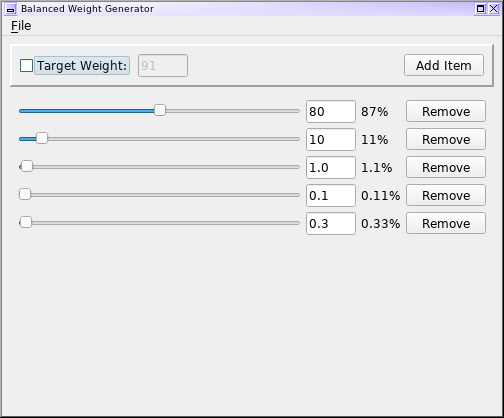
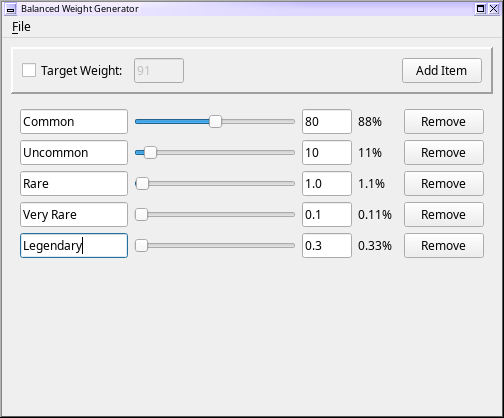
Adding text labels to rows, courtesy apple1417

Changed region(s): [[0.0298, 0.1244, 0.9821, 0.622], [0.0, 0.0311, 1.0, 0.0933], [0.0595, 0.0, 0.2976, 0.0311]]

diff --git a/balanced.py b/balanced.py
@@ -44,6 +44,11 @@ class Line(object):
         #self.lockbox.stateChanged.connect(self.lock_switched)
         #self.container.addWidget(self.lockbox, self.index, 0)
 
+        # Label
+        self.description = QtWidgets.QLineEdit('Description', parent)
+        self.description.setSizePolicy(QtWidgets.QSizePolicy.Minimum, QtWidgets.QSizePolicy.Minimum)
+        self.container.addWidget(self.description, self.index, 0)
+
         # Main Slider
         self.slider = QtWidgets.QSlider(QtCore.Qt.Horizontal, parent)
         self.slider.setMinimum(0)
@@ -85,6 +90,7 @@ class Line(object):
                     self.slider,
                     self.weightbox,
                     self.percentlabel,
+                    self.description,
                     #self.lockbox,
                     ]:
                 self.container.removeWidget(widget)
@@ -92,13 +98,13 @@ class Line(object):
                 widget = None
             self.parent.removed_line(self)
 
-    def lock_switched(self):
-        if self.lockbox.isChecked():
-            self.slider.setDisabled(True)
-            self.weightbox.setDisabled(True)
-        else:
-            self.slider.setDisabled(False)
-            self.weightbox.setDisabled(False)
+    #def lock_switched(self):
+    #    if self.lockbox.isChecked():
+    #        self.slider.setDisabled(True)
+    #        self.weightbox.setDisabled(True)
+    #    else:
+    #        self.slider.setDisabled(False)
+    #        self.weightbox.setDisabled(False)
 
     def enable_remove(self):
         self.remove_button.setDisabled(False)

diff --git a/README.md b/README.md
@@ -85,6 +85,7 @@ Changelog
 ---------
 
 **April 8, 2022**
+ - Added text labels for rows, courtesy apple1417
  - Updated with some fixes for newer Qt versions
 
 **August 3, 2018**
